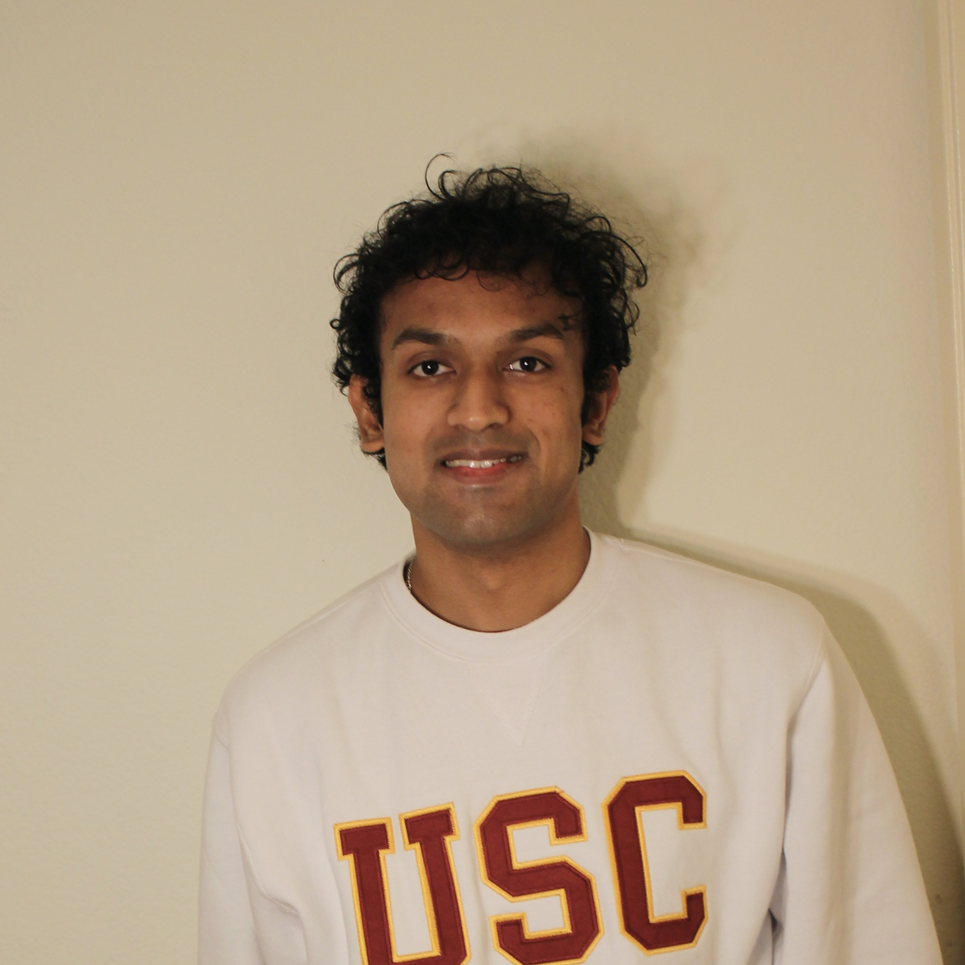
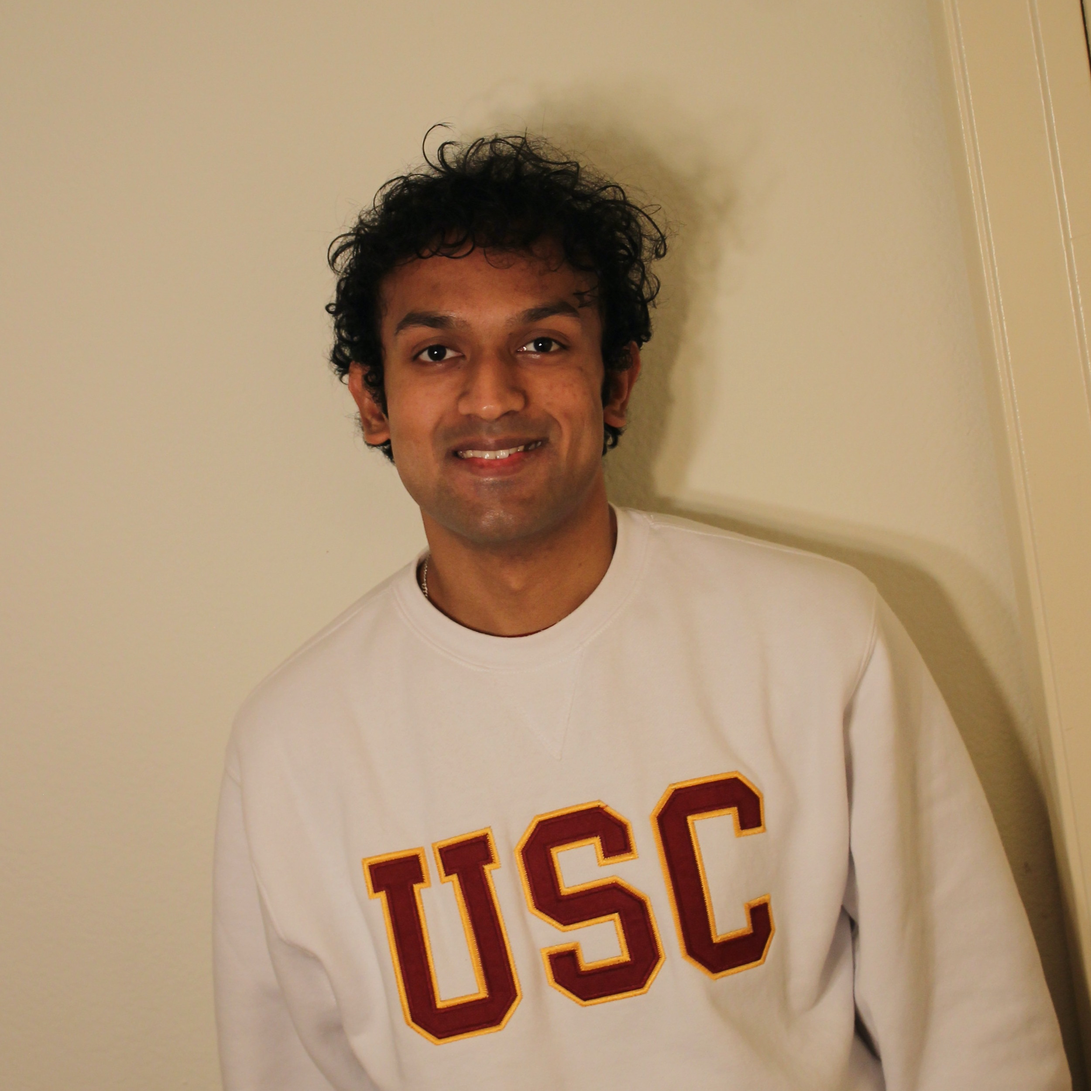
Change dp

diff --git a/post/learning-resources/index.html b/post/learning-resources/index.html
@@ -1,6 +1,6 @@
 <!DOCTYPE html>
 <!-- This site was created with Wowchemy. https://www.wowchemy.com -->
-<!-- Last Published: March 12, 2024 --><html lang="en-us" >
+<!-- Last Published: March 15, 2024 --><html lang="en-us" >
 
 
 <head>
@@ -1236,7 +1236,7 @@ From Theory to Algorithms</strong></a>, by Shai Shalev-Shwartz and Shai Ben-Davi
   <div class="media author-card content-widget-hr">
     
       
-      <a href="https://ksanu1998.github.io/"><img class="avatar mr-3 avatar-circle" src="/authors/admin/avatar_huaff3700677b769af505edf8f5a27cd7e_466670_270x270_fill_q75_lanczos_center.jpg" alt="Sai Anuroop Kesanapalli"></a>
+      <a href="https://ksanu1998.github.io/"><img class="avatar mr-3 avatar-circle" src="/authors/admin/avatar_hu1fd532cf84e5f8dbcdc3cb16a8e5de50_685574_270x270_fill_q75_lanczos_center.jpg" alt="Sai Anuroop Kesanapalli"></a>
     
 
     <div class="media-body">

diff --git a/project/beaverpy/index.html b/project/beaverpy/index.html
@@ -1,6 +1,6 @@
 <!DOCTYPE html>
 <!-- This site was created with Wowchemy. https://www.wowchemy.com -->
-<!-- Last Published: March 12, 2024 --><html lang="en-us" >
+<!-- Last Published: March 15, 2024 --><html lang="en-us" >
 
 
 <head>
@@ -1163,7 +1163,7 @@
   <div class="media author-card content-widget-hr">
     
       
-      <a href="https://ksanu1998.github.io/"><img class="avatar mr-3 avatar-circle" src="/authors/admin/avatar_huaff3700677b769af505edf8f5a27cd7e_466670_270x270_fill_q75_lanczos_center.jpg" alt="Sai Anuroop Kesanapalli"></a>
+      <a href="https://ksanu1998.github.io/"><img class="avatar mr-3 avatar-circle" src="/authors/admin/avatar_hu1fd532cf84e5f8dbcdc3cb16a8e5de50_685574_270x270_fill_q75_lanczos_center.jpg" alt="Sai Anuroop Kesanapalli"></a>
     
 
     <div class="media-body">

diff --git a/project/ccfd/index.html b/project/ccfd/index.html
@@ -1,6 +1,6 @@
 <!DOCTYPE html>
 <!-- This site was created with Wowchemy. https://www.wowchemy.com -->
-<!-- Last Published: March 12, 2024 --><html lang="en-us" >
+<!-- Last Published: March 15, 2024 --><html lang="en-us" >
 
 
 <head>
@@ -1180,7 +1180,7 @@
   <div class="media author-card content-widget-hr">
     
       
-      <a href="https://ksanu1998.github.io/"><img class="avatar mr-3 avatar-circle" src="/authors/admin/avatar_huaff3700677b769af505edf8f5a27cd7e_466670_270x270_fill_q75_lanczos_center.jpg" alt="Sai Anuroop Kesanapalli"></a>
+      <a href="https://ksanu1998.github.io/"><img class="avatar mr-3 avatar-circle" src="/authors/admin/avatar_hu1fd532cf84e5f8dbcdc3cb16a8e5de50_685574_270x270_fill_q75_lanczos_center.jpg" alt="Sai Anuroop Kesanapalli"></a>
     
 
     <div class="media-body">

diff --git a/project/fedexp/index.html b/project/fedexp/index.html
@@ -1,6 +1,6 @@
 <!DOCTYPE html>
 <!-- This site was created with Wowchemy. https://www.wowchemy.com -->
-<!-- Last Published: March 12, 2024 --><html lang="en-us" >
+<!-- Last Published: March 15, 2024 --><html lang="en-us" >
 
 
 <head>
@@ -1176,7 +1176,7 @@
   <div class="media author-card content-widget-hr">
     
       
-      <a href="https://ksanu1998.github.io/"><img class="avatar mr-3 avatar-circle" src="/authors/admin/avatar_huaff3700677b769af505edf8f5a27cd7e_466670_270x270_fill_q75_lanczos_center.jpg" alt="Sai Anuroop Kesanapalli"></a>
+      <a href="https://ksanu1998.github.io/"><img class="avatar mr-3 avatar-circle" src="/authors/admin/avatar_hu1fd532cf84e5f8dbcdc3cb16a8e5de50_685574_270x270_fill_q75_lanczos_center.jpg" alt="Sai Anuroop Kesanapalli"></a>
     
 
     <div class="media-body">

diff --git a/project/ff/index.html b/project/ff/index.html
@@ -1,6 +1,6 @@
 <!DOCTYPE html>
 <!-- This site was created with Wowchemy. https://www.wowchemy.com -->
-<!-- Last Published: March 12, 2024 --><html lang="en-us" >
+<!-- Last Published: March 15, 2024 --><html lang="en-us" >
 
 
 <head>
@@ -1174,7 +1174,7 @@
   <div class="media author-card content-widget-hr">
     
       
-      <a href="https://ksanu1998.github.io/"><img class="avatar mr-3 avatar-circle" src="/authors/admin/avatar_huaff3700677b769af505edf8f5a27cd7e_466670_270x270_fill_q75_lanczos_center.jpg" alt="Sai Anuroop Kesanapalli"></a>
+      <a href="https://ksanu1998.github.io/"><img class="avatar mr-3 avatar-circle" src="/authors/admin/avatar_hu1fd532cf84e5f8dbcdc3cb16a8e5de50_685574_270x270_fill_q75_lanczos_center.jpg" alt="Sai Anuroop Kesanapalli"></a>
     
 
     <div class="media-body">

diff --git a/project/heterogeneity/index.html b/project/heterogeneity/index.html
@@ -1,6 +1,6 @@
 <!DOCTYPE html>
 <!-- This site was created with Wowchemy. https://www.wowchemy.com -->
-<!-- Last Published: March 12, 2024 --><html lang="en-us" >
+<!-- Last Published: March 15, 2024 --><html lang="en-us" >
 
 
 <head>
@@ -1178,7 +1178,7 @@
   <div class="media author-card content-widget-hr">
     
       
-      <a href="https://ksanu1998.github.io/"><img class="avatar mr-3 avatar-circle" src="/authors/admin/avatar_huaff3700677b769af505edf8f5a27cd7e_466670_270x270_fill_q75_lanczos_center.jpg" alt="Sai Anuroop Kesanapalli"></a>
+      <a href="https://ksanu1998.github.io/"><img class="avatar mr-3 avatar-circle" src="/authors/admin/avatar_hu1fd532cf84e5f8dbcdc3cb16a8e5de50_685574_270x270_fill_q75_lanczos_center.jpg" alt="Sai Anuroop Kesanapalli"></a>
     
 
     <div class="media-body">

diff --git a/project/jit/index.html b/project/jit/index.html
@@ -1,6 +1,6 @@
 <!DOCTYPE html>
 <!-- This site was created with Wowchemy. https://www.wowchemy.com -->
-<!-- Last Published: March 12, 2024 --><html lang="en-us" >
+<!-- Last Published: March 15, 2024 --><html lang="en-us" >
 
 
 <head>
@@ -1164,7 +1164,7 @@
   <div class="media author-card content-widget-hr">
     
       
-      <a href="https://ksanu1998.github.io/"><img class="avatar mr-3 avatar-circle" src="/authors/admin/avatar_huaff3700677b769af505edf8f5a27cd7e_466670_270x270_fill_q75_lanczos_center.jpg" alt="Sai Anuroop Kesanapalli"></a>
+      <a href="https://ksanu1998.github.io/"><img class="avatar mr-3 avatar-circle" src="/authors/admin/avatar_hu1fd532cf84e5f8dbcdc3cb16a8e5de50_685574_270x270_fill_q75_lanczos_center.jpg" alt="Sai Anuroop Kesanapalli"></a>
     
 
     <div class="media-body">

diff --git a/project/llmstatic/index.html b/project/llmstatic/index.html
@@ -1,6 +1,6 @@
 <!DOCTYPE html>
 <!-- This site was created with Wowchemy. https://www.wowchemy.com -->
-<!-- Last Published: March 12, 2024 --><html lang="en-us" >
+<!-- Last Published: March 15, 2024 --><html lang="en-us" >
 
 
 <head>
@@ -1181,7 +1181,7 @@
   <div class="media author-card content-widget-hr">
     
       
-      <a href="https://ksanu1998.github.io/"><img class="avatar mr-3 avatar-circle" src="/authors/admin/avatar_huaff3700677b769af505edf8f5a27cd7e_466670_270x270_fill_q75_lanczos_center.jpg" alt="Sai Anuroop Kesanapalli"></a>
+      <a href="https://ksanu1998.github.io/"><img class="avatar mr-3 avatar-circle" src="/authors/admin/avatar_hu1fd532cf84e5f8dbcdc3cb16a8e5de50_685574_270x270_fill_q75_lanczos_center.jpg" alt="Sai Anuroop Kesanapalli"></a>
     
 
     <div class="media-body">

diff --git a/project/minixos/index.html b/project/minixos/index.html
@@ -1,6 +1,6 @@
 <!DOCTYPE html>
 <!-- This site was created with Wowchemy. https://www.wowchemy.com -->
-<!-- Last Published: March 12, 2024 --><html lang="en-us" >
+<!-- Last Published: March 15, 2024 --><html lang="en-us" >
 
 
 <head>
@@ -1170,7 +1170,7 @@
   <div class="media author-card content-widget-hr">
     
       
-      <a href="https://ksanu1998.github.io/"><img class="avatar mr-3 avatar-circle" src="/authors/admin/avatar_huaff3700677b769af505edf8f5a27cd7e_466670_270x270_fill_q75_lanczos_center.jpg" alt="Sai Anuroop Kesanapalli"></a>
+      <a href="https://ksanu1998.github.io/"><img class="avatar mr-3 avatar-circle" src="/authors/admin/avatar_hu1fd532cf84e5f8dbcdc3cb16a8e5de50_685574_270x270_fill_q75_lanczos_center.jpg" alt="Sai Anuroop Kesanapalli"></a>
     
 
     <div class="media-body">

diff --git a/project/rethinking/index.html b/project/rethinking/index.html
@@ -1,6 +1,6 @@
 <!DOCTYPE html>
 <!-- This site was created with Wowchemy. https://www.wowchemy.com -->
-<!-- Last Published: March 12, 2024 --><html lang="en-us" >
+<!-- Last Published: March 15, 2024 --><html lang="en-us" >
 
 
 <head>
@@ -1162,7 +1162,7 @@
   <div class="media author-card content-widget-hr">
     
       
-      <a href="https://ksanu1998.github.io/"><img class="avatar mr-3 avatar-circle" src="/authors/admin/avatar_huaff3700677b769af505edf8f5a27cd7e_466670_270x270_fill_q75_lanczos_center.jpg" alt="Sai Anuroop Kesanapalli"></a>
+      <a href="https://ksanu1998.github.io/"><img class="avatar mr-3 avatar-circle" src="/authors/admin/avatar_hu1fd532cf84e5f8dbcdc3cb16a8e5de50_685574_270x270_fill_q75_lanczos_center.jpg" alt="Sai Anuroop Kesanapalli"></a>
     
 
     <div class="media-body">

diff --git a/project/sgdbias/index.html b/project/sgdbias/index.html
@@ -1,6 +1,6 @@
 <!DOCTYPE html>
 <!-- This site was created with Wowchemy. https://www.wowchemy.com -->
-<!-- Last Published: March 12, 2024 --><html lang="en-us" >
+<!-- Last Published: March 15, 2024 --><html lang="en-us" >
 
 
 <head>
@@ -1164,7 +1164,7 @@
   <div class="media author-card content-widget-hr">
     
       
-      <a href="https://ksanu1998.github.io/"><img class="avatar mr-3 avatar-circle" src="/authors/admin/avatar_huaff3700677b769af505edf8f5a27cd7e_466670_270x270_fill_q75_lanczos_center.jpg" alt="Sai Anuroop Kesanapalli"></a>
+      <a href="https://ksanu1998.github.io/"><img class="avatar mr-3 avatar-circle" src="/authors/admin/avatar_hu1fd532cf84e5f8dbcdc3cb16a8e5de50_685574_270x270_fill_q75_lanczos_center.jpg" alt="Sai Anuroop Kesanapalli"></a>
     
 
     <div class="media-body">

diff --git a/project/stores/index.html b/project/stores/index.html
@@ -1,6 +1,6 @@
 <!DOCTYPE html>
 <!-- This site was created with Wowchemy. https://www.wowchemy.com -->
-<!-- Last Published: March 12, 2024 --><html lang="en-us" >
+<!-- Last Published: March 15, 2024 --><html lang="en-us" >
 
 
 <head>
@@ -1172,7 +1172,7 @@
   <div class="media author-card content-widget-hr">
     
       
-      <a href="https://ksanu1998.github.io/"><img class="avatar mr-3 avatar-circle" src="/authors/admin/avatar_huaff3700677b769af505edf8f5a27cd7e_466670_270x270_fill_q75_lanczos_center.jpg" alt="Sai Anuroop Kesanapalli"></a>
+      <a href="https://ksanu1998.github.io/"><img class="avatar mr-3 avatar-circle" src="/authors/admin/avatar_hu1fd532cf84e5f8dbcdc3cb16a8e5de50_685574_270x270_fill_q75_lanczos_center.jpg" alt="Sai Anuroop Kesanapalli"></a>
     
 
     <div class="media-body">
